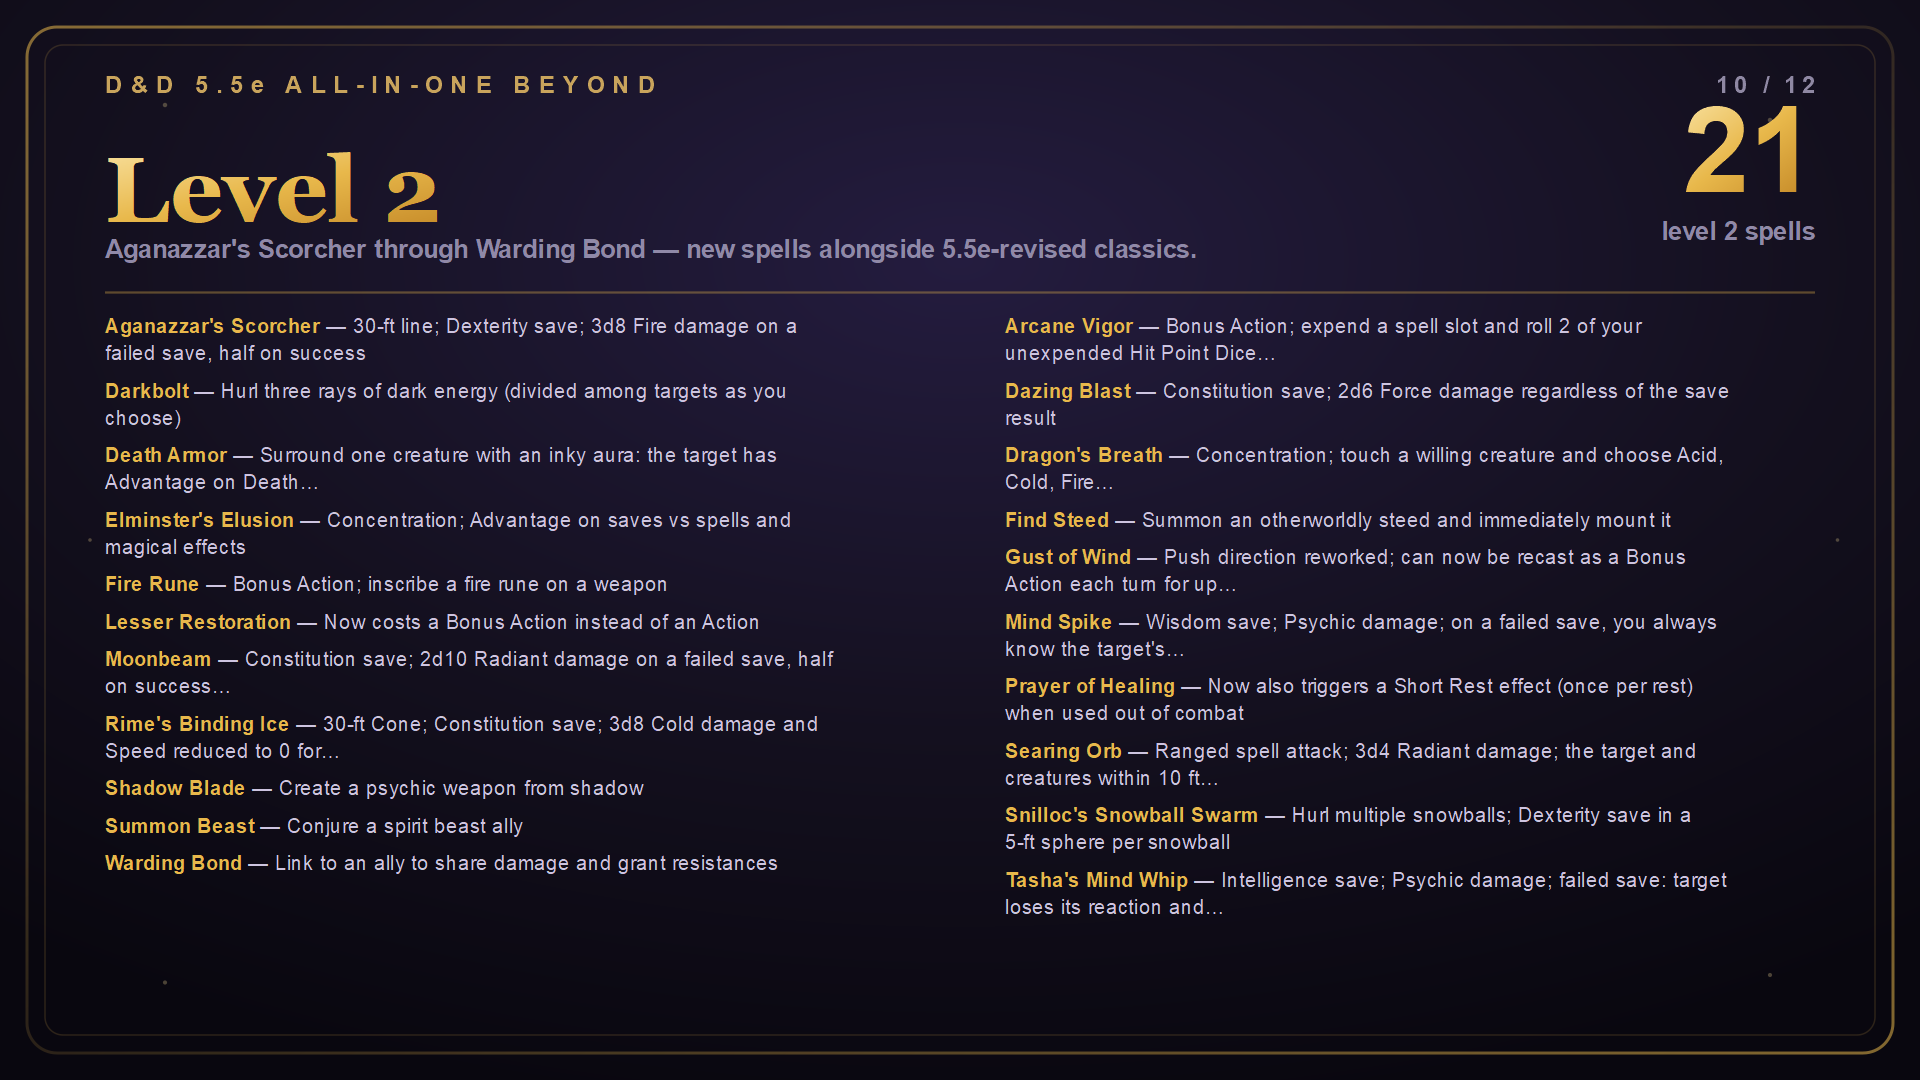
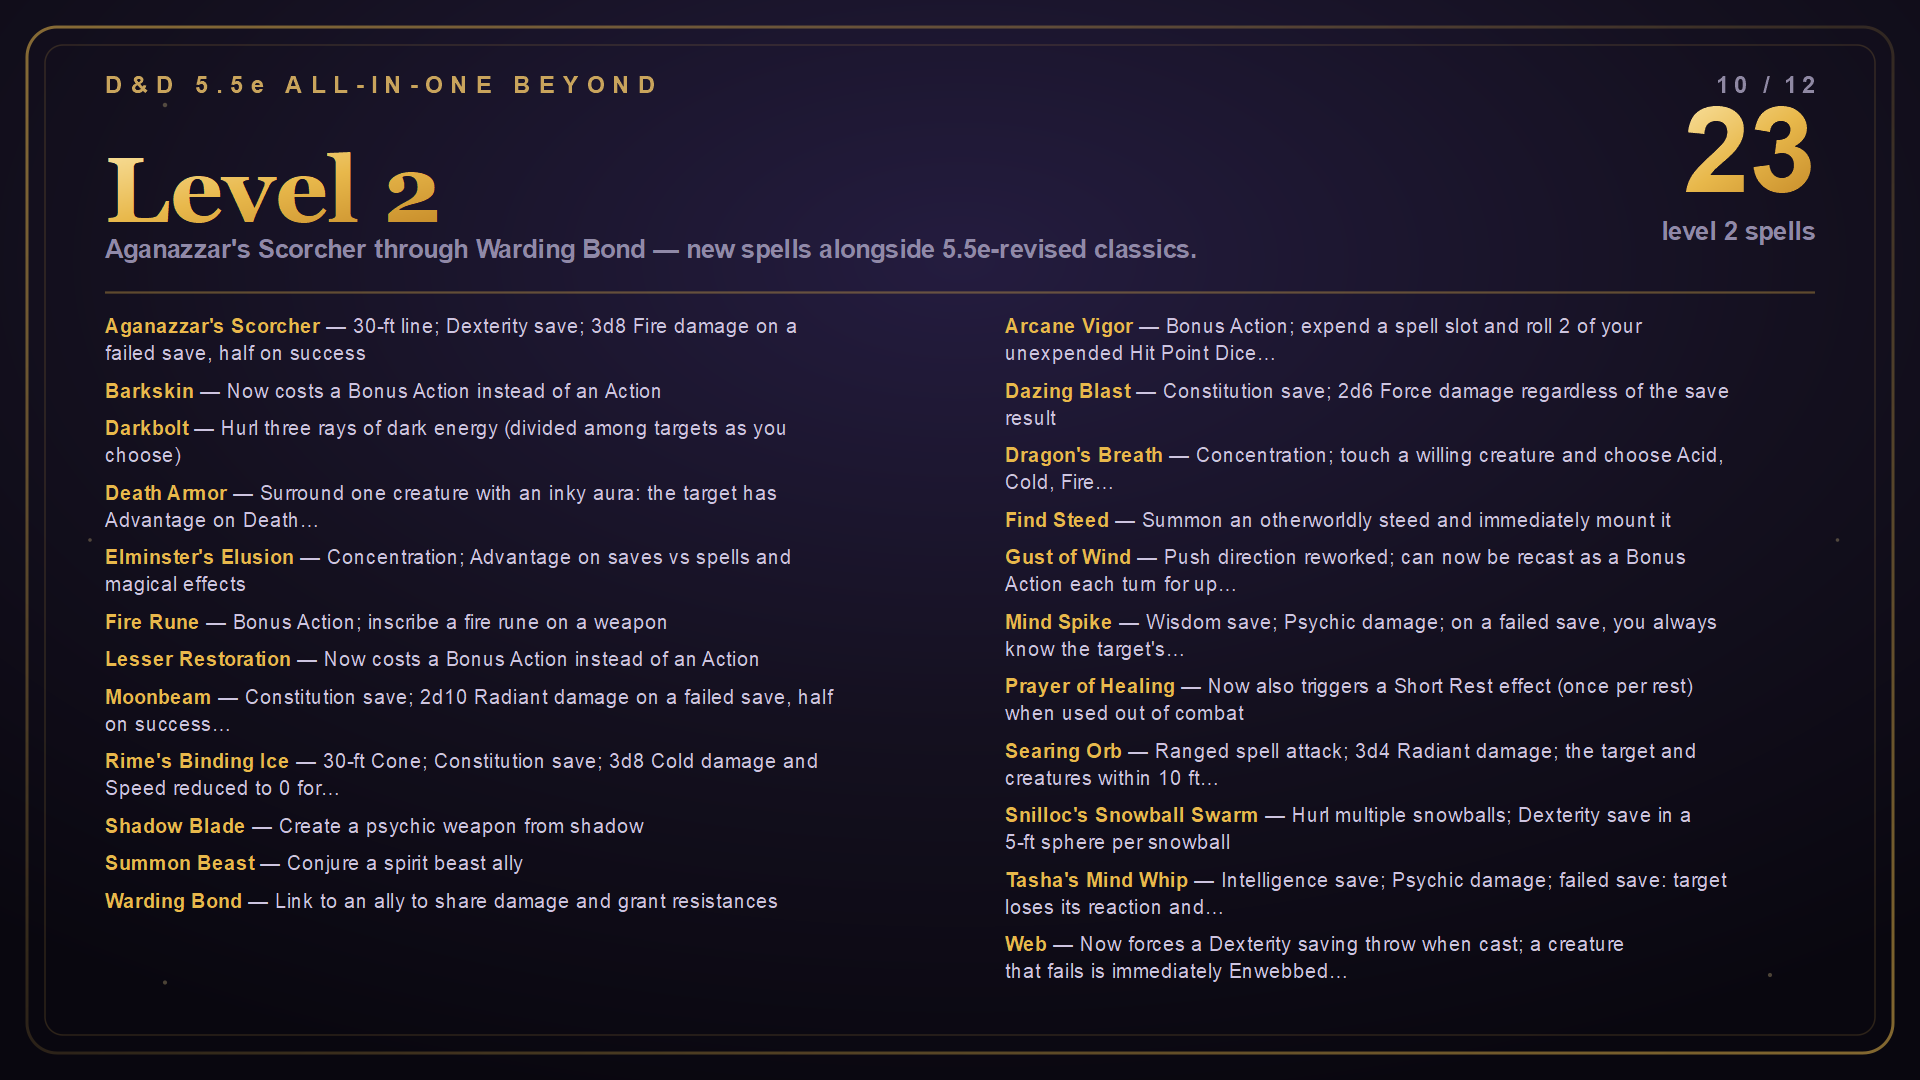
docs(spells): count Barkskin among the revised spells
Barkskin now costs a Bonus Action, so list it under Level 2 in the three
readmes and on the Level 2 slide, and raise the spell tally to 105.

Changed region(s): [[0.0312, 0.3361, 0.4375, 0.8556], [0.5312, 0.8556, 0.8438, 0.9167], [0.9062, 0.0917, 0.9375, 0.1833]]

diff --git a/README_Modio.html b/README_Modio.html
@@ -90,7 +90,7 @@
 <h3>Leveled Spells</h3>
 <ul>
   <li><strong>Level 1:</strong> Absorb Elements, Armor of Agathys, Ballistic Smite, Body Warping of Gorgoroth, Catapult, Chromatic Orb, Cloak of Shadow, Color Spray, Command, Cure Wounds, Dissonant Whispers, False Life, Healing Word, Hell's Lash, Hungering Blade, Spectral Slash, Spellfire Flare, Thorn Armor, Thunderous Smite, Tide of Darkness, Umbral Tendril, Wardaway, Witch Bolt, Wrathful Smite.</li>
-  <li><strong>Level 2:</strong> Aganazzar's Scorcher, Arcane Vigor, Darkbolt, Dazing Blast, Death Armor, Dragon's Breath, Elminster's Elusion, Find Steed, Fire Rune, Gust of Wind, Lesser Restoration, Mind Spike, Moonbeam, Prayer of Healing, Rime's Binding Ice, Searing Orb, Shadow Blade, Snilloc's Snowball Swarm, Summon Beast, Tasha's Mind Whip, Warding Bond.</li>
+  <li><strong>Level 2:</strong> Aganazzar's Scorcher, Arcane Vigor, Barkskin, Darkbolt, Dazing Blast, Death Armor, Dragon's Breath, Elminster's Elusion, Find Steed, Fire Rune, Gust of Wind, Lesser Restoration, Mind Spike, Moonbeam, Prayer of Healing, Rime's Binding Ice, Searing Orb, Shadow Blade, Snilloc's Snowball Swarm, Summon Beast, Tasha's Mind Whip, Warding Bond.</li>
   <li><strong>Level 3:</strong> Ashardalon's Stride, Astral Flood, Aura of Vitality, Bestow Curse, Cacophonic Shield, Conjure Barrage, Crusader's Mantle, Elemental Exhalation, Laeral's Silver Lance, Lightning Arrow, Murmurs of Doom, Phantom Steed, Summon Fey, Tidal Wave, Trollblood Infusion, Void Strike.</li>
   <li><strong>Level 4:</strong> Charm Monster, Conjure Woodland Beings, Fire Dance, Fount of Moonlight, Murder of Crows, Spellfire Storm, Vitriolic Sphere.</li>
   <li><strong>Level 5:</strong> Awaken, Circle of Power, Cone of Cold, Dawn, Dream, Enervation, Holy Weapon, Steel Wind Strike, Summon Celestial, Summon Dragon, Synaptic Static.</li>

diff --git a/README.md b/README.md
@@ -100,7 +100,7 @@ Acid Splash, Blade Ward, Blood Bolt, Booming Blade, Bursting Sinew, Finger Guns,
 ### Leveled Spells
 
 - Level 1: Absorb Elements, Armor of Agathys, Ballistic Smite, Body Warping of Gorgoroth, Catapult, Chromatic Orb, Cloak of Shadow, Color Spray, Command, Cure Wounds, Dissonant Whispers, False Life, Healing Word, Hell's Lash, Hungering Blade, Spectral Slash, Spellfire Flare, Thorn Armor, Thunderous Smite, Tide of Darkness, Umbral Tendril, Wardaway, Witch Bolt, Wrathful Smite.
-- Level 2: Aganazzar's Scorcher, Arcane Vigor, Darkbolt, Dazing Blast, Death Armor, Dragon's Breath, Elminster's Elusion, Find Steed, Fire Rune, Gust of Wind, Lesser Restoration, Mind Spike, Moonbeam, Prayer of Healing, Rime's Binding Ice, Searing Orb, Shadow Blade, Snilloc's Snowball Swarm, Summon Beast, Tasha's Mind Whip, Warding Bond.
+- Level 2: Aganazzar's Scorcher, Arcane Vigor, Barkskin, Darkbolt, Dazing Blast, Death Armor, Dragon's Breath, Elminster's Elusion, Find Steed, Fire Rune, Gust of Wind, Lesser Restoration, Mind Spike, Moonbeam, Prayer of Healing, Rime's Binding Ice, Searing Orb, Shadow Blade, Snilloc's Snowball Swarm, Summon Beast, Tasha's Mind Whip, Warding Bond.
 - Level 3: Ashardalon's Stride, Astral Flood, Aura of Vitality, Bestow Curse, Cacophonic Shield, Conjure Barrage, Crusader's Mantle, Elemental Exhalation, Laeral's Silver Lance, Lightning Arrow, Murmurs of Doom, Phantom Steed, Summon Fey, Tidal Wave, Trollblood Infusion, Void Strike.
 - Level 4: Charm Monster, Conjure Woodland Beings, Fire Dance, Fount of Moonlight, Murder of Crows, Spellfire Storm, Vitriolic Sphere.
 - Level 5: Awaken, Circle of Power, Cone of Cold, Dawn, Dream, Enervation, Holy Weapon, Steel Wind Strike, Summon Celestial, Summon Dragon, Synaptic Static.
